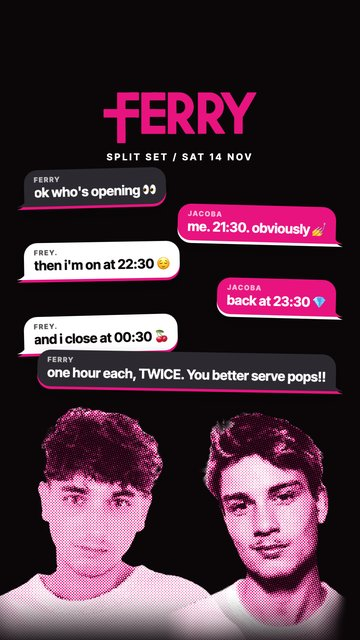
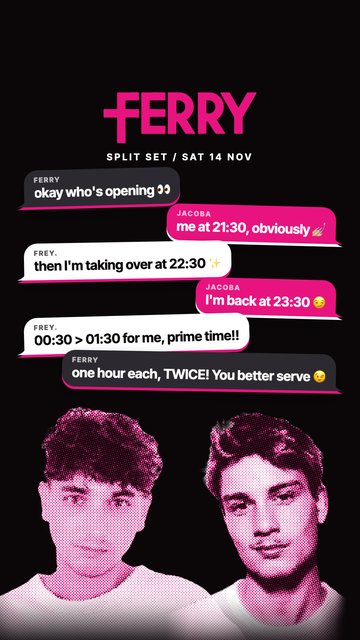
FREYcraft: new Group chat copy

Changed region(s): [[0.0306, 0.25, 0.9472, 0.625], [0.8556, 0.3438, 0.9167, 0.375], [0.0611, 0.4375, 0.0917, 0.4688]]

diff --git a/FREYcraft/index.html b/FREYcraft/index.html
@@ -445,12 +445,12 @@ const TEMPLATES=[
   {name:'Group chat',sub:'who opens?',preset:'black',ps:{...DOTS,mode:'duo'},els:()=>[
     {id:'ferry',name:'FERRY logo',type:'img',src:'ferry-pink.png',x:310,y:276,w:460},
     T({id:'cap',name:'Date line',cls:'t-cap',html:'Split set / Sat 14 Nov',x:540,y:452,anchor:'center',color:'#fff'}),
-    chat('FERRY','ok who\'s opening 👀',72,506,'#2c2a30','#fff','left','',-1.5),
-    chat('JACOBA','me. 21:30. obviously 💅',1008,616,PINK,'#fff','right','',1.5),
-    chat('FREY.','then i\'m on at 22:30 😌',72,726,'#fff',INK,'left','',-1),
-    chat('JACOBA','back at 23:30 💎',1008,836,PINK,'#fff','right','',1.5),
-    chat('FREY.','and i close at 00:30 🍒',72,946,'#fff',INK,'left','',-1.5),
-    chat('FERRY','one hour each, TWICE. You better serve pops!!',1008,1056,'#2c2a30','#fff','right','',1),
+    chat('FERRY','okay who\'s opening 👀',72,506,'#2c2a30','#fff','left','',-1.5),
+    chat('JACOBA','me at 21:30, obviously 💅🏼',1008,616,PINK,'#fff','right','',1.5),
+    chat('FREY.','then I\'m taking over at 22:30 ✨',72,726,'#fff',INK,'left','',-1),
+    chat('JACOBA','I\'m back at 23:30 😏',1008,836,PINK,'#fff','right','',1.5),
+    chat('FREY.','00:30 &gt; 01:30 for me, prime time!!',72,946,'#fff',INK,'left','',-1.5),
+    chat('FERRY','one hour each, TWICE! You better serve 😉',1008,1056,'#2c2a30','#fff','right','',1),
     photo('frey',290,1500,330),photo('jacoba',790,1500,330)]},
 ];
 
